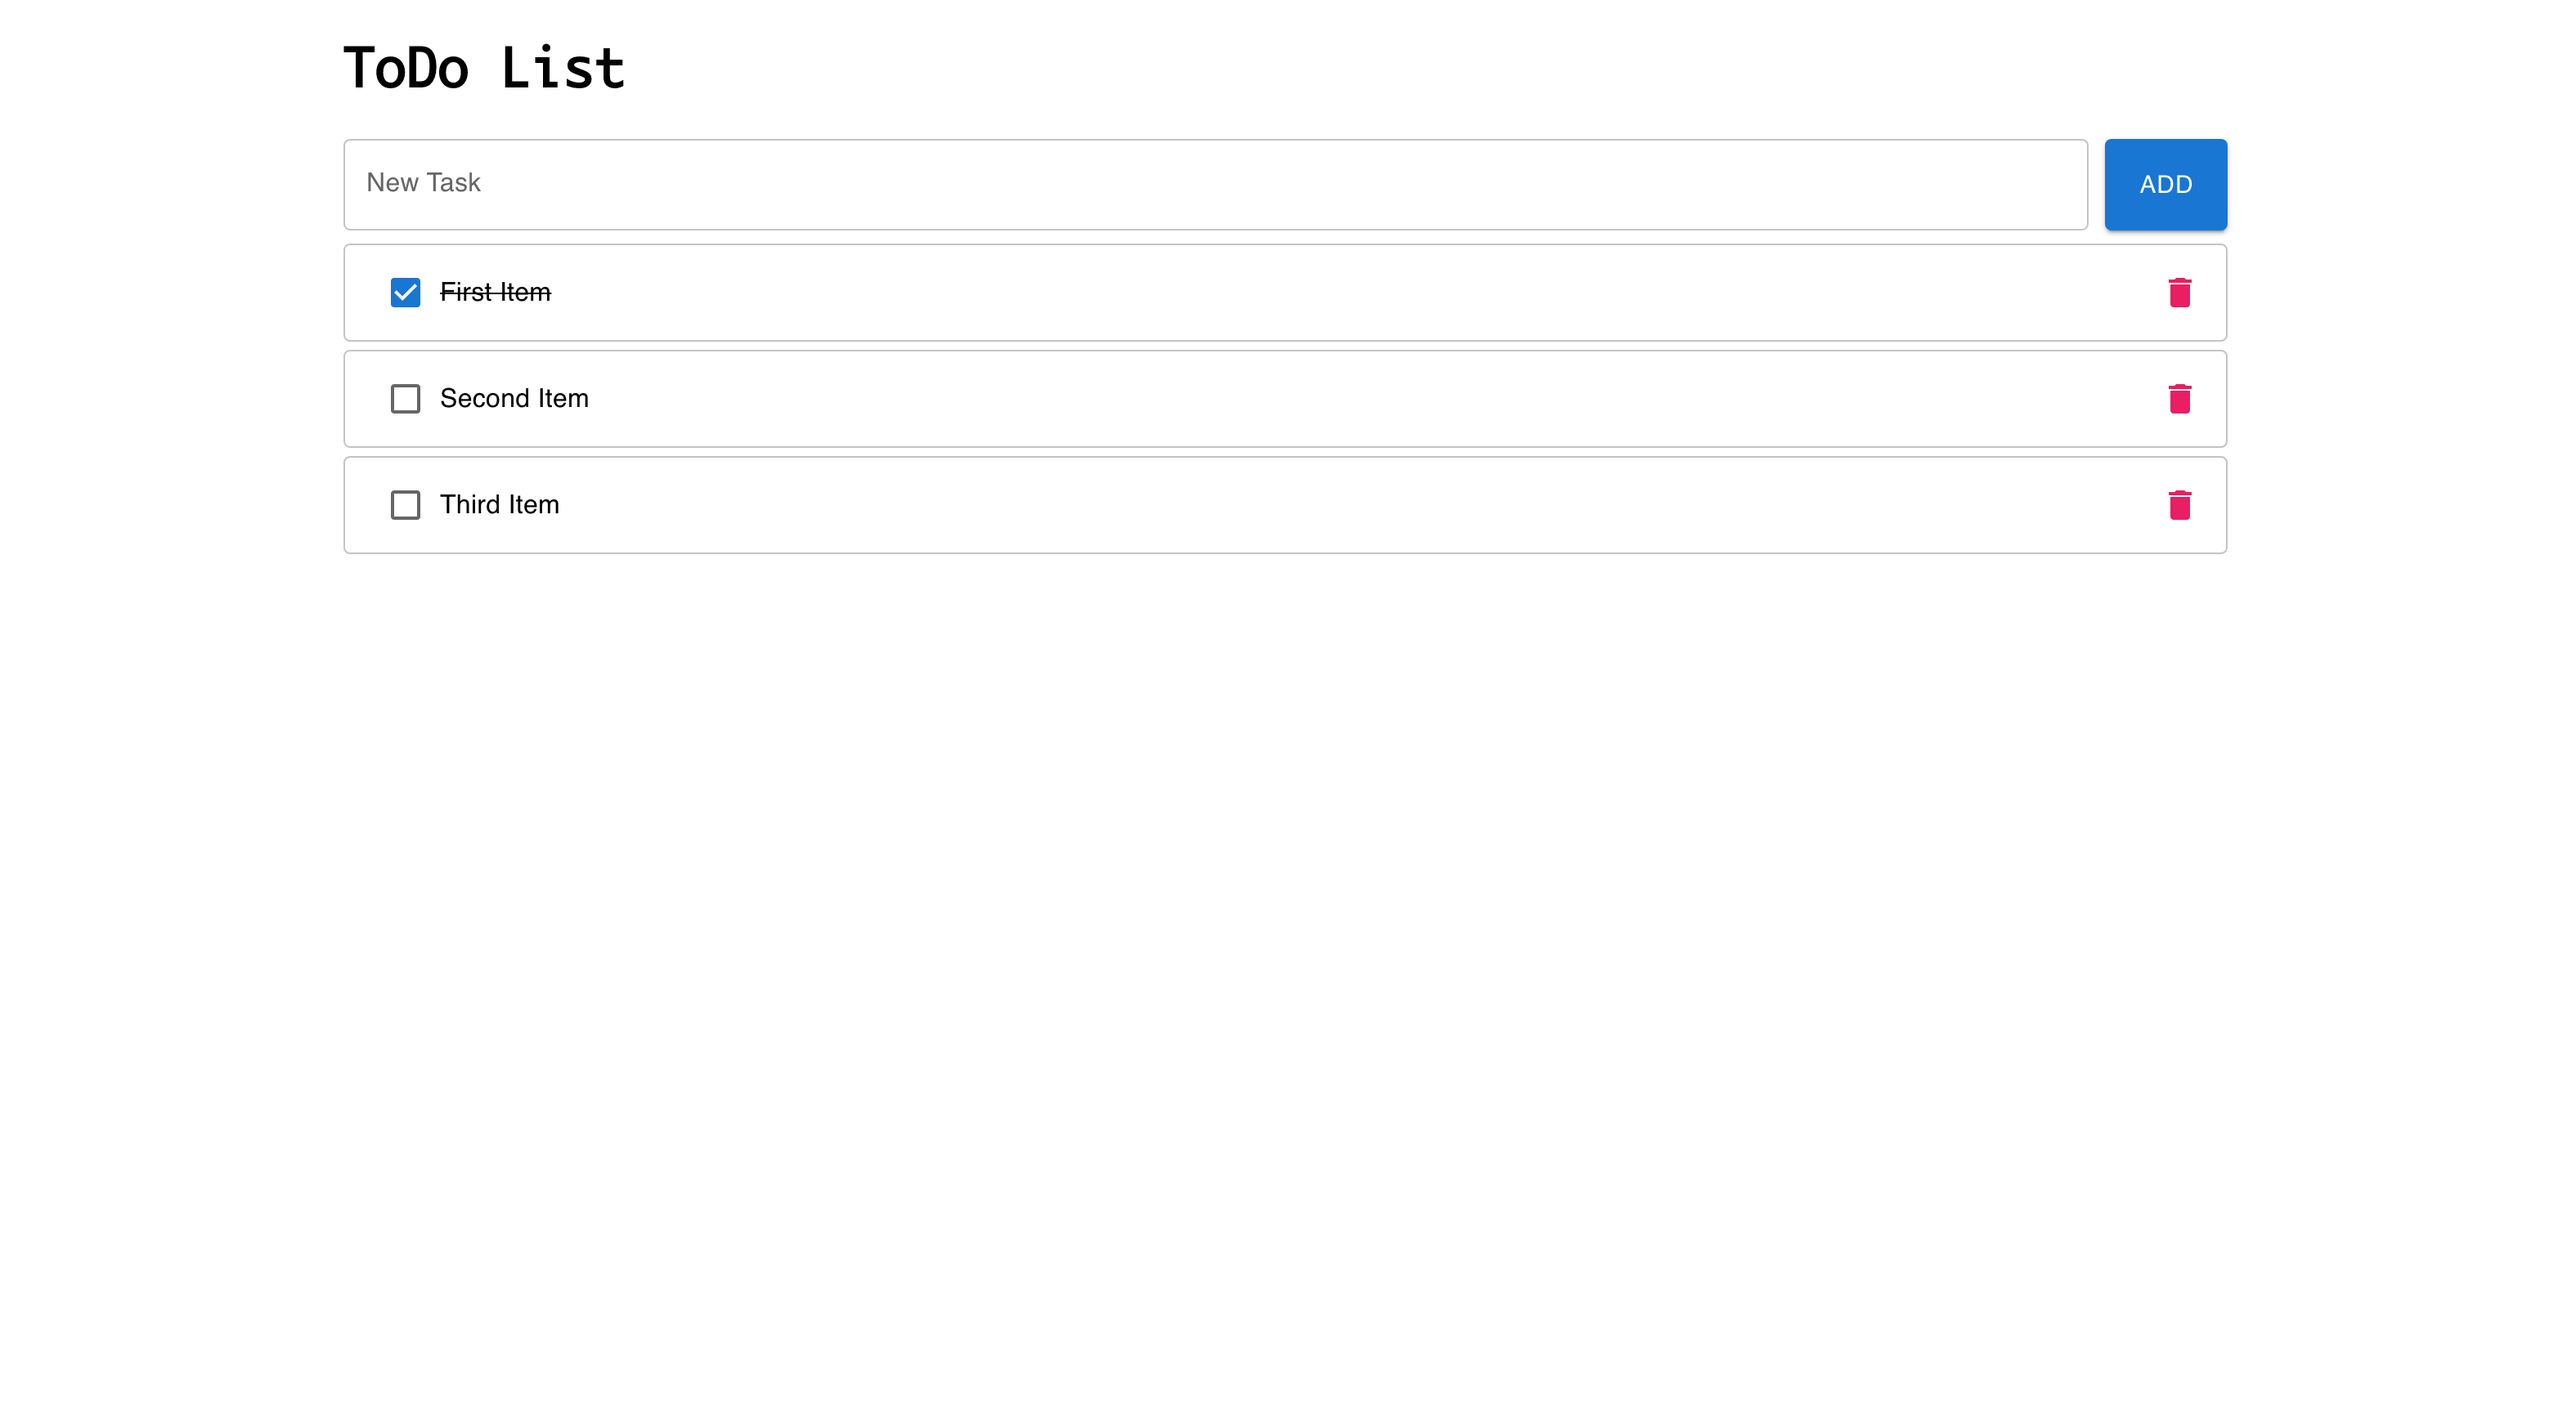
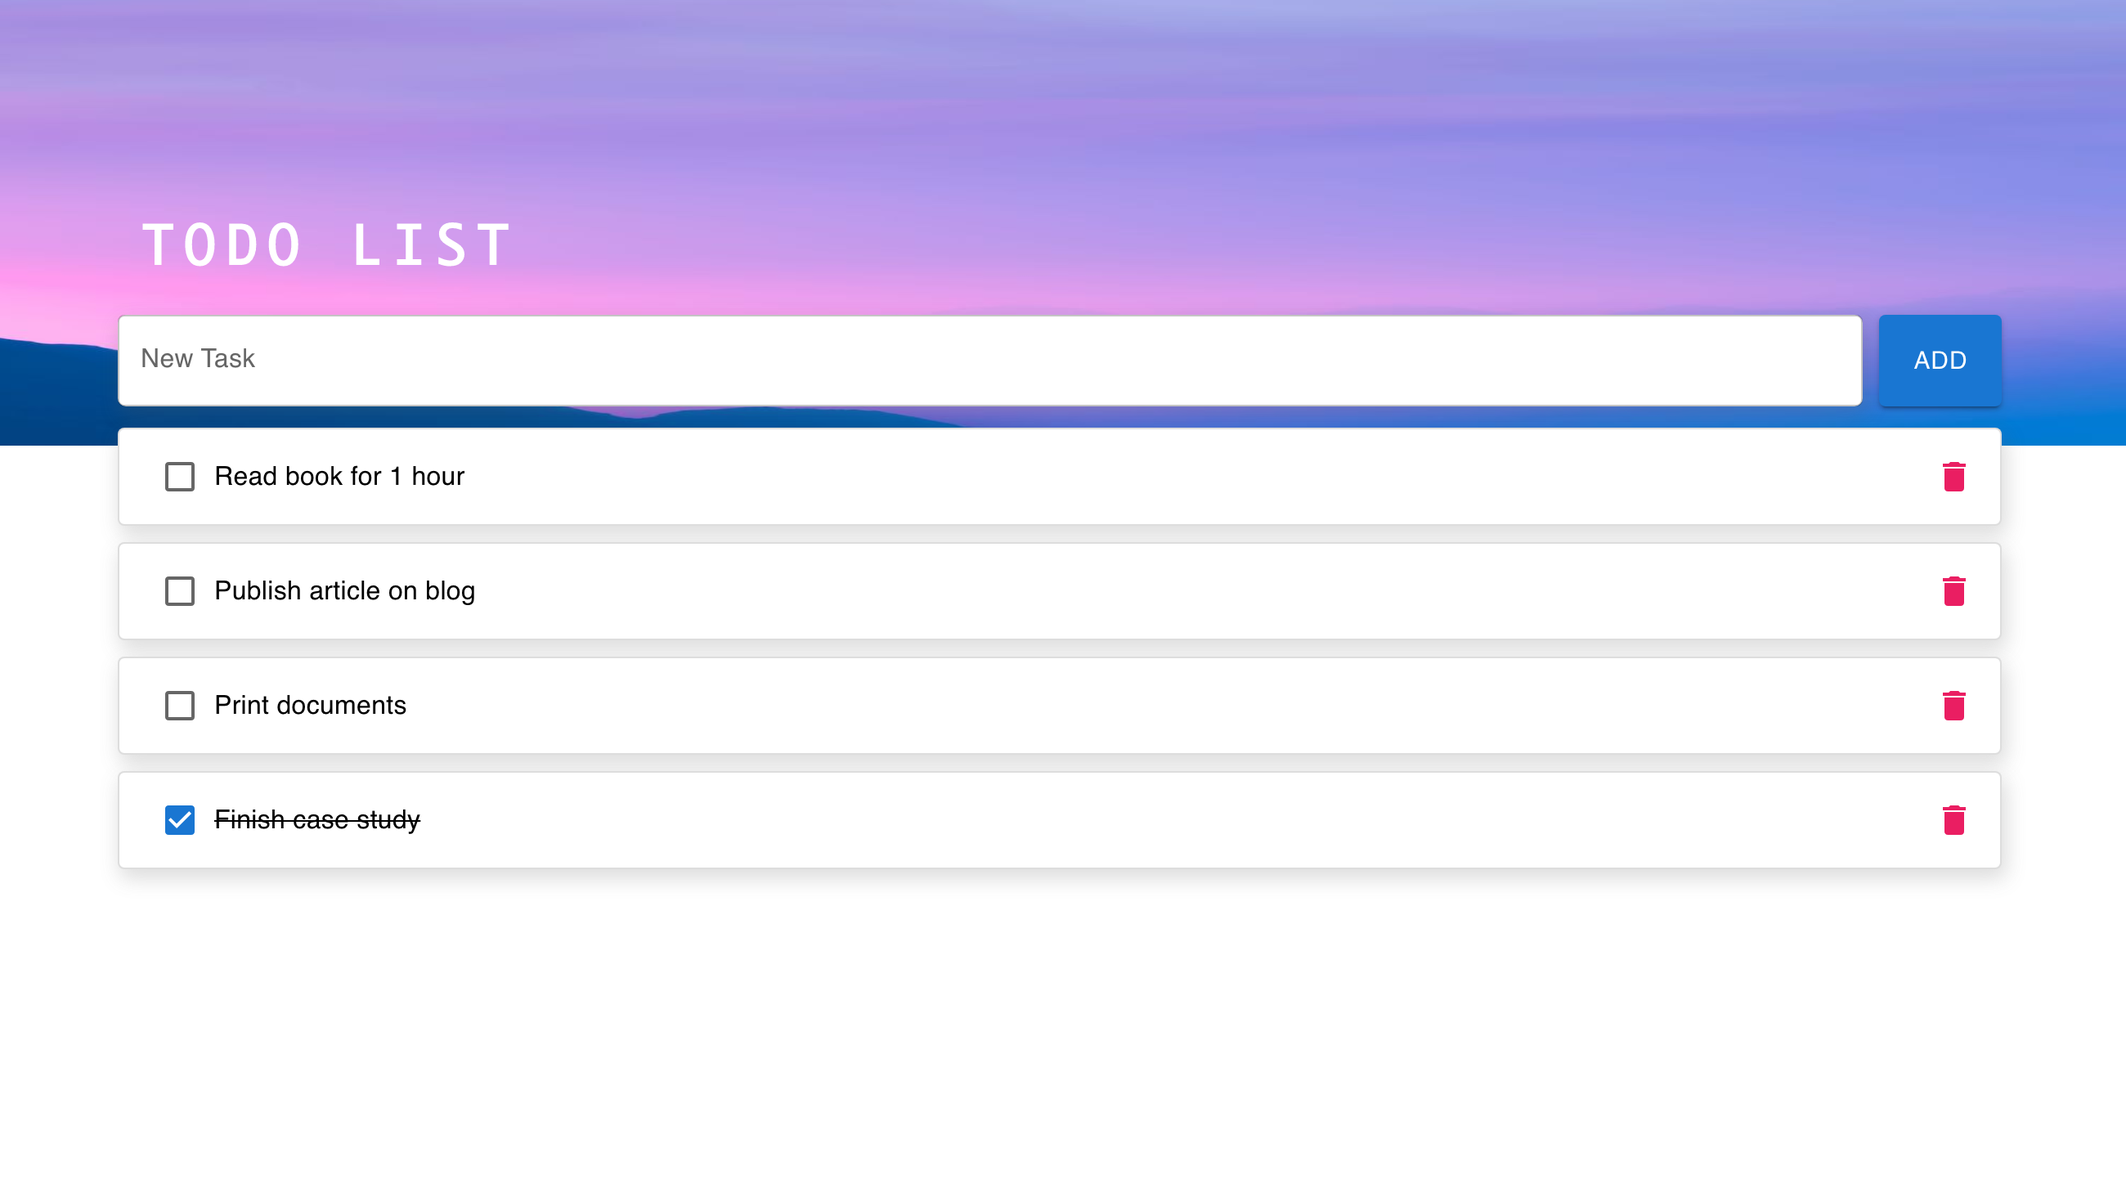
CDD and modern design

diff --git a/src/App.js b/src/App.js
@@ -1,87 +1,22 @@
 import "./App.scss";
-import {
-  TextField,
-  Button,
-  List,
-  ListItem,
-  ListItemText,
-  Checkbox,
-  Container,
-  Box,
-} from "@mui/material";
-import DeleteIcon from "@mui/icons-material/Delete";
 import { useEffect, useState } from "react";
+import { List, Container, Box } from "@mui/material";
+import { Get } from "./providers";
+import { NewTask,TaskItem } from "./components";
+
 
 function App() {
+  
   useEffect(() => {
-    getTask();
+    Get(taskOperation);
   }, []);
 
   const [tasks, setTasks] = useState([]);
-
   const [newTask, setNewTask] = useState({
     name: "",
     check: false
   });
 
-  const url =
-    "https://my-json-server.typicode.com/sametsunman/mockapi-todo-list/tasks/";
-
-  const getTask = () => {
-    fetch(url)
-      .then((response) => response.json())
-      .then((data) => taskOperation("get",data));
-  };
-
-  const postTask = (task) => {
-    fetch(url, {
-      method: "POST",
-      mode: "cors",
-      cache: "no-cache",
-      credentials: "same-origin",
-      headers: {
-        "Content-Type": "application/json",
-      },
-      redirect: "follow",
-      referrerPolicy: "no-referrer",
-      body: JSON.stringify(task),
-    })
-      .then((response) => response.json())
-      .then((data) => taskOperation("create",data));
-  };
-
-  const deleteTask = (id) => {
-    fetch(url + id, {
-      method: "DELETE",
-      mode: "cors",
-      cache: "no-cache",
-      credentials: "same-origin",
-      headers: {
-        "Content-Type": "application/json",
-      },
-      redirect: "follow",
-      referrerPolicy: "no-referrer",
-    })
-      .then((response) => response.json())
-      .then((data) => taskOperation("delete",id));
-  };
-
-  const putTask = (id, task) => {
-    fetch(url + id, {
-      method: "PUT",
-      mode: "cors",
-      cache: "no-cache",
-      credentials: "same-origin",
-      headers: {
-        "Content-Type": "application/json",
-      },
-      redirect: "follow",
-      referrerPolicy: "no-referrer",
-      body: JSON.stringify(task),
-    })
-      .then((response) => response.json())
-      .then((data) => taskOperation("update",task));
-  };
 
   const taskOperation = (type, value) => {
     switch (type) {
@@ -110,47 +45,10 @@ function App() {
     <Container>
       <Box>
         <h1 className="title">ToDo List</h1>
-        <div className="new-task">
-          <TextField
-            className="new-input"
-            id="newTask"
-            label="New Task"
-            variant="outlined"
-            value={newTask.name}
-            onChange={(event) =>
-              setNewTask({ ...newTask, name: event.target.value })
-            }
-          />
-          <Button
-            className="new-button"
-            size="large"
-            variant="contained"
-            onClick={() => {
-              postTask(newTask);
-            }}
-          >
-            Add
-          </Button>
-        </div>
+        <NewTask newTask={newTask} setNewTask={setNewTask} taskOperation={taskOperation} />
         <List>
           {tasks.map((task) => (
-            <ListItem key={task.id} className="list-item">
-              <Checkbox
-                checked={task.check}
-                onChange={() =>
-                  putTask(task.id, { ...task, check: !task.check })
-                }
-              />
-              <ListItemText
-                sx={{ textDecoration: task.check ? "line-through" : "unset" }}
-              >
-                {task.name}
-              </ListItemText>
-              <DeleteIcon
-                className="delete-icon"
-                onClick={() => deleteTask(task.id)}
-              />
-            </ListItem>
+            <TaskItem key={task.id} task={task} taskOperation={taskOperation} />      
           ))}
         </List>
       </Box>

diff --git a/src/providers.js b/src/providers.js
@@ -1,0 +1,57 @@
+const url = "https://my-json-server.typicode.com/sametsunman/mockapi-todo-list/tasks/";
+
+export const Get = (taskOperation) => {
+    fetch(url)
+      .then((response) => response.json())
+      .then((data) => taskOperation("get",data));
+  };
+
+export const Post = (taskOperation, task) => {
+    fetch(url, {
+      method: "POST",
+      mode: "cors",
+      cache: "no-cache",
+      credentials: "same-origin",
+      headers: {
+        "Content-Type": "application/json",
+      },
+      redirect: "follow",
+      referrerPolicy: "no-referrer",
+      body: JSON.stringify(task),
+    })
+      .then((response) => response.json())
+      .then((data) => taskOperation("create",data));
+  };
+
+export const Delete = (taskOperation, id) => {
+    fetch(url + id, {
+      method: "DELETE",
+      mode: "cors",
+      cache: "no-cache",
+      credentials: "same-origin",
+      headers: {
+        "Content-Type": "application/json",
+      },
+      redirect: "follow",
+      referrerPolicy: "no-referrer",
+    })
+      .then((response) => response.json())
+      .then((data) => taskOperation("delete",id));
+  };
+
+export const Put = (taskOperation, id, task) => {
+    fetch(url + id, {
+      method: "PUT",
+      mode: "cors",
+      cache: "no-cache",
+      credentials: "same-origin",
+      headers: {
+        "Content-Type": "application/json",
+      },
+      redirect: "follow",
+      referrerPolicy: "no-referrer",
+      body: JSON.stringify(task),
+    })
+      .then((response) => response.json())
+      .then((data) => taskOperation("update",task));
+  };

diff --git a/src/App.scss b/src/App.scss
@@ -1,13 +1,32 @@
+%background-shadow {
+  background-color: white;
+  box-shadow: 2px 5px 12px 1px #5e5e5e36;
+}
+
+body {
+  background-image: url("background.jpg");
+  background-repeat: no-repeat;
+  background-size: 100% 30vh;
+}
+
 .title {
-  font-family: Monaco, -apple-system, BlinkMacSystemFont, "Segoe UI", Roboto, Oxygen,
-    Ubuntu, Cantarell, "Open Sans", "Helvetica Neue", sans-serif;
+  font-family: Monaco, -apple-system, BlinkMacSystemFont, "Segoe UI", Roboto,
+    Oxygen, Ubuntu, Cantarell, "Open Sans", "Helvetica Neue", sans-serif;
+  margin-top: 132px;
+  margin-inline: 15px;
+  color: white;
+  text-transform: uppercase;
+  letter-spacing: 0.2em;
 }
 .new-task {
   display: flex !important;
+  margin-bottom: 5px;
 }
 .new-input {
+  @extend %background-shadow;
   width: 100%;
   margin-right: 10px !important;
+  border-radius: 5px;
 }
 
 .new-button {
@@ -15,9 +34,10 @@
 }
 
 .list-item {
-  border: 1px solid #c4c4c4;
+  @extend %background-shadow;
+  border: 1px solid #c4c4c491;
   border-radius: 4px;
-  margin-bottom: 5px;
+  margin-bottom: 10px;
 }
 
 .delete-icon {

diff --git a/src/components/TaskItem.js b/src/components/TaskItem.js
@@ -1,0 +1,33 @@
+import {
+  ListItem,
+  ListItemText,
+  Checkbox
+} from "@mui/material";
+import DeleteIcon from "@mui/icons-material/Delete";
+import {Put,Delete} from "../providers";
+
+
+function TaskItem({task,taskOperation}) {
+  
+  return (
+            <ListItem key={task.id} className="list-item">
+              <Checkbox
+                checked={task.check}
+                onChange={() =>
+                  Put(taskOperation, task.id, { ...task, check: !task.check })
+                }
+              />
+              <ListItemText
+                sx={{ textDecoration: task.check ? "line-through" : "unset" }}
+              >
+                {task.name}
+              </ListItemText>
+              <DeleteIcon
+                className="delete-icon"
+                onClick={() => Delete(taskOperation, task.id)}
+              />
+            </ListItem>
+  );
+}
+
+export default TaskItem;

diff --git a/src/components/NewTask.js b/src/components/NewTask.js
@@ -1,0 +1,31 @@
+import { Button, TextField } from "@mui/material";
+import { Post } from "../providers";
+
+function NewTask({ newTask, setNewTask, taskOperation }) {
+  return (
+    <div className="new-task">
+      <TextField
+        className="new-input"
+        id="newTask"
+        label="New Task"
+        variant="outlined"
+        value={newTask.name}
+        onChange={(event) =>
+          setNewTask({ ...newTask, name: event.target.value })
+        }
+      />
+      <Button
+        className="new-button"
+        size="large"
+        variant="contained"
+        onClick={() => {
+          Post(taskOperation, newTask);
+        }}
+      >
+        Add
+      </Button>
+    </div>
+  );
+}
+
+export default NewTask;

diff --git a/src/components/index.js b/src/components/index.js
@@ -1,0 +1,4 @@
+import NewTask from "./NewTask";
+import TaskItem from "./TaskItem";
+
+export {NewTask,TaskItem};

diff --git a/README.md b/README.md
@@ -2,8 +2,8 @@
 This app is means, an application that shows the list of daily task items. Items should be contain
 name and status(completed or not).
 
-Demo: https://asnus-todolist.netlify.app
-JSON Server: https://my-json-server.typicode.com/sametsunman/mockapi-todo-list/tasks
+- Demo: https://asnus-todolist.netlify.app
+- JSON Server: https://my-json-server.typicode.com/sametsunman/mockapi-todo-list/tasks
 
 ### User Story
 - As a User, i want to check my to-do list items.
